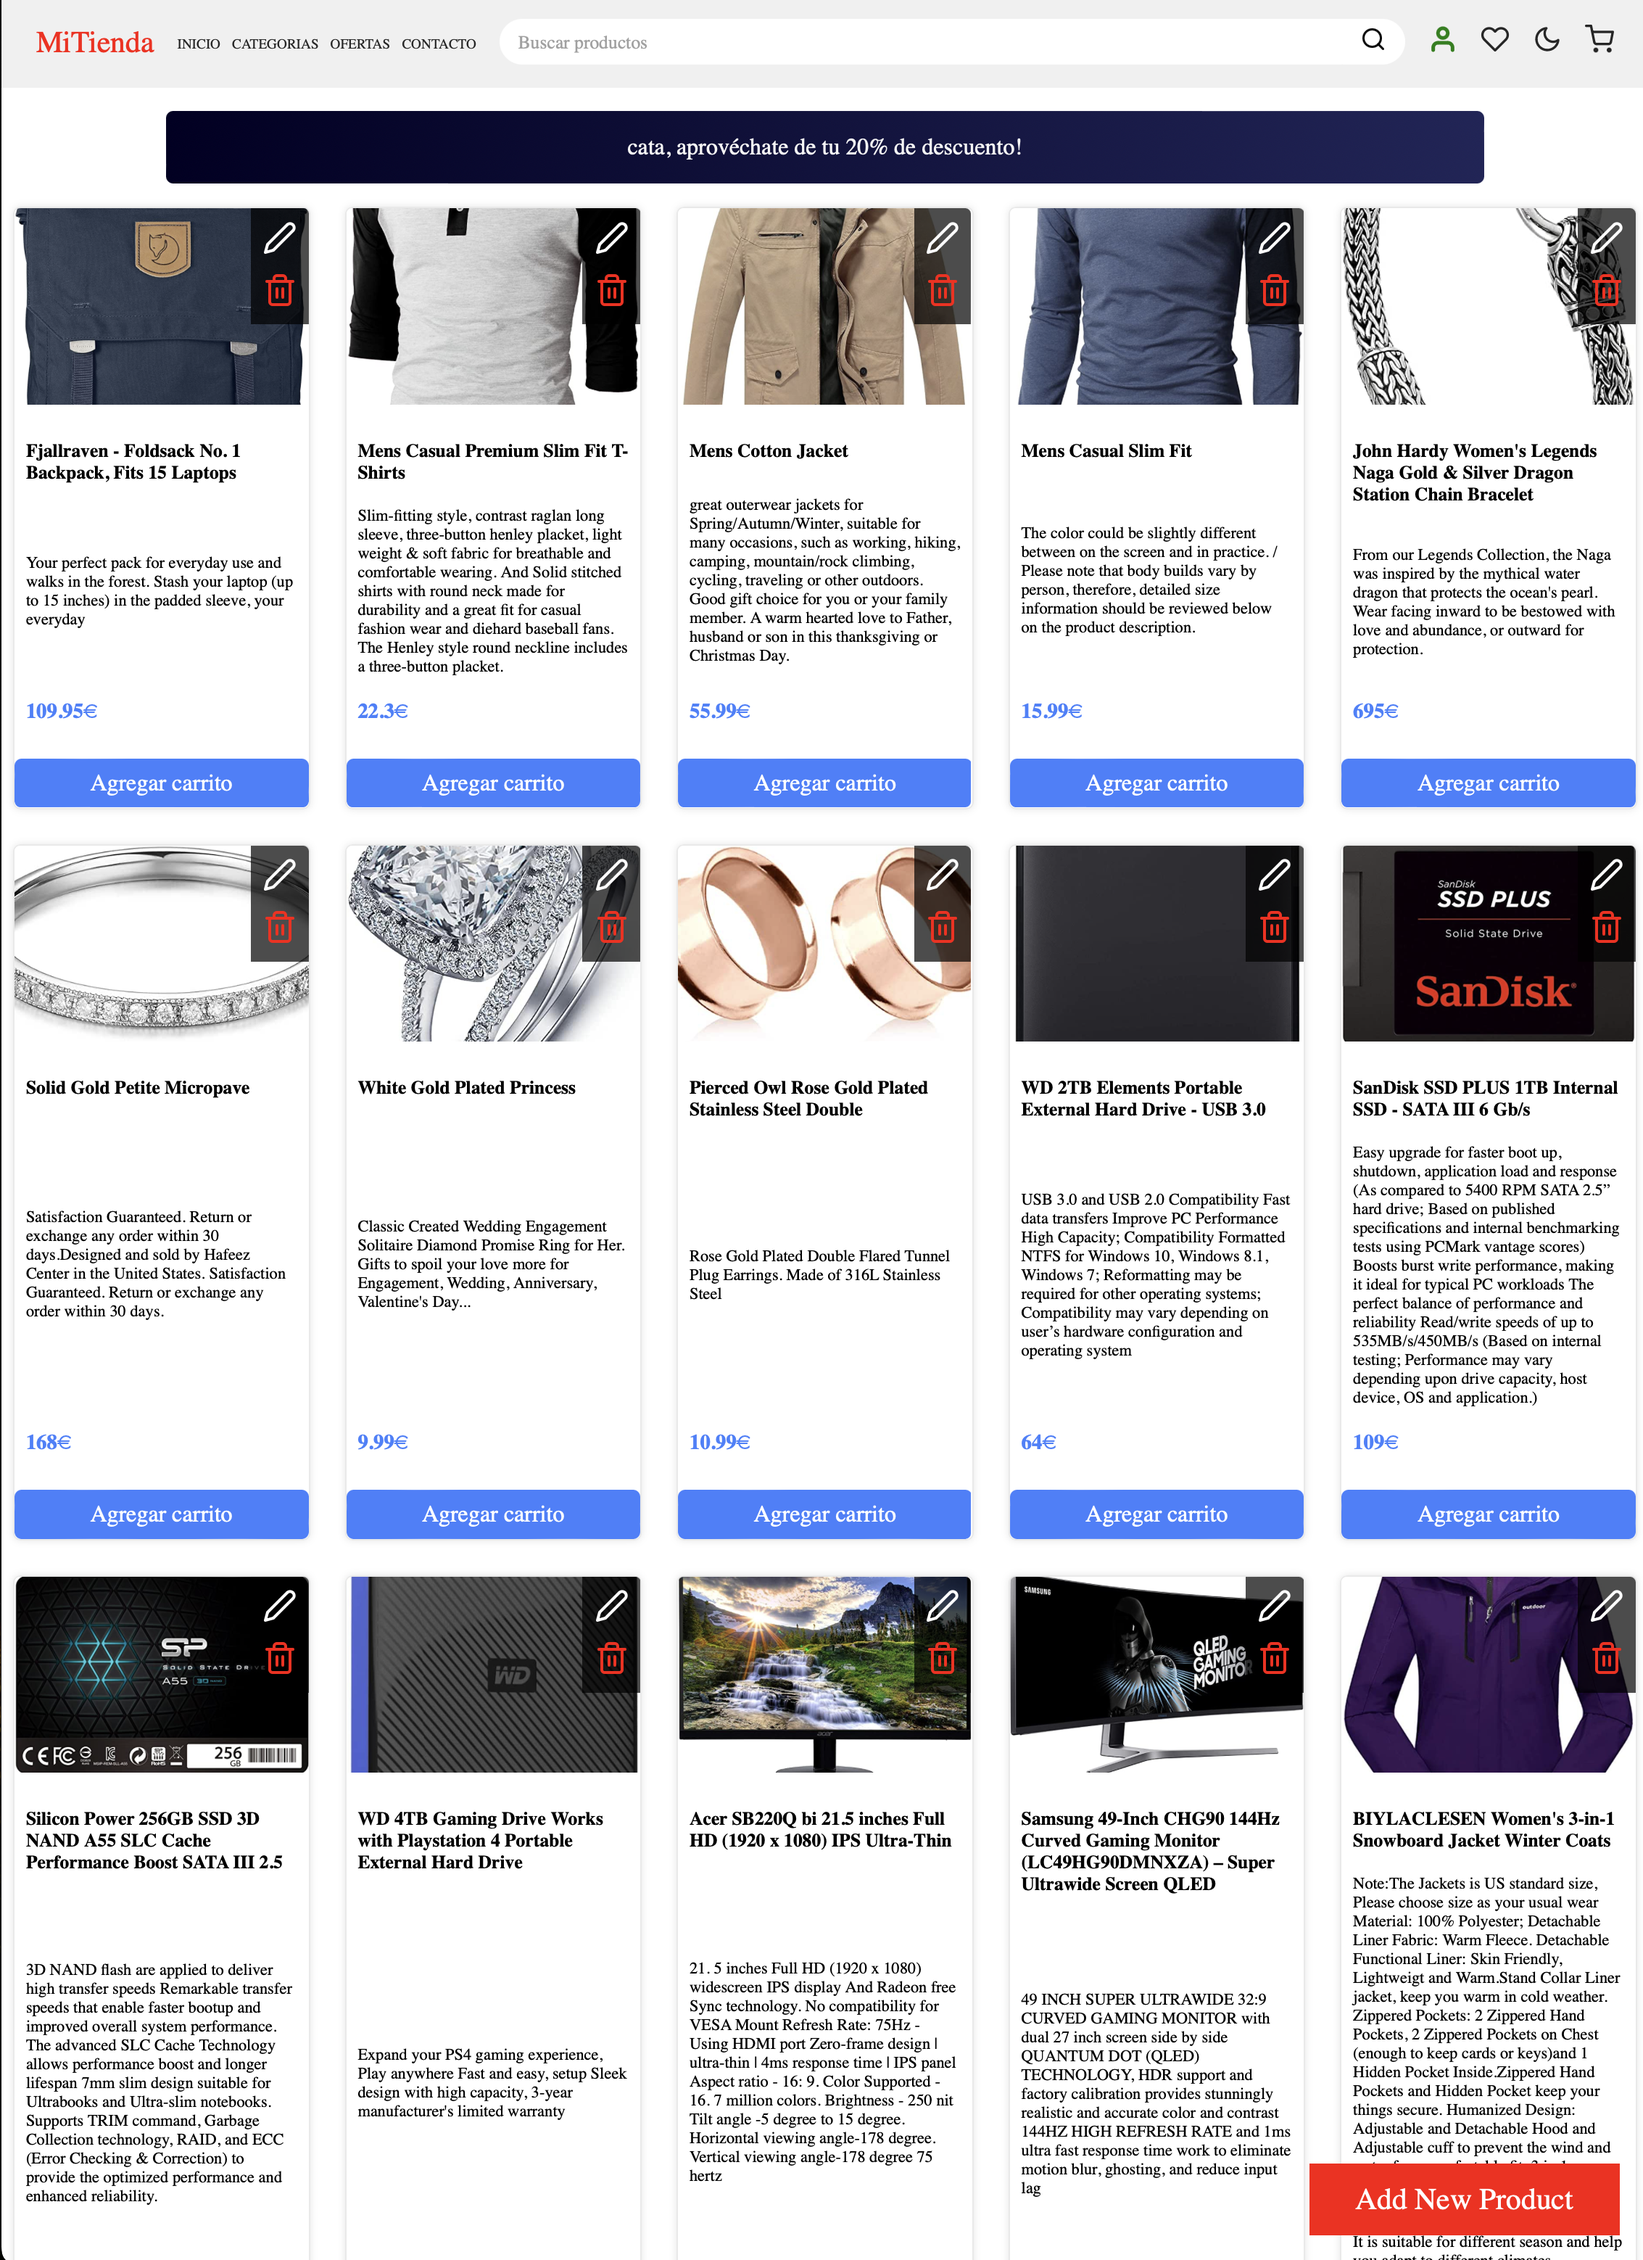
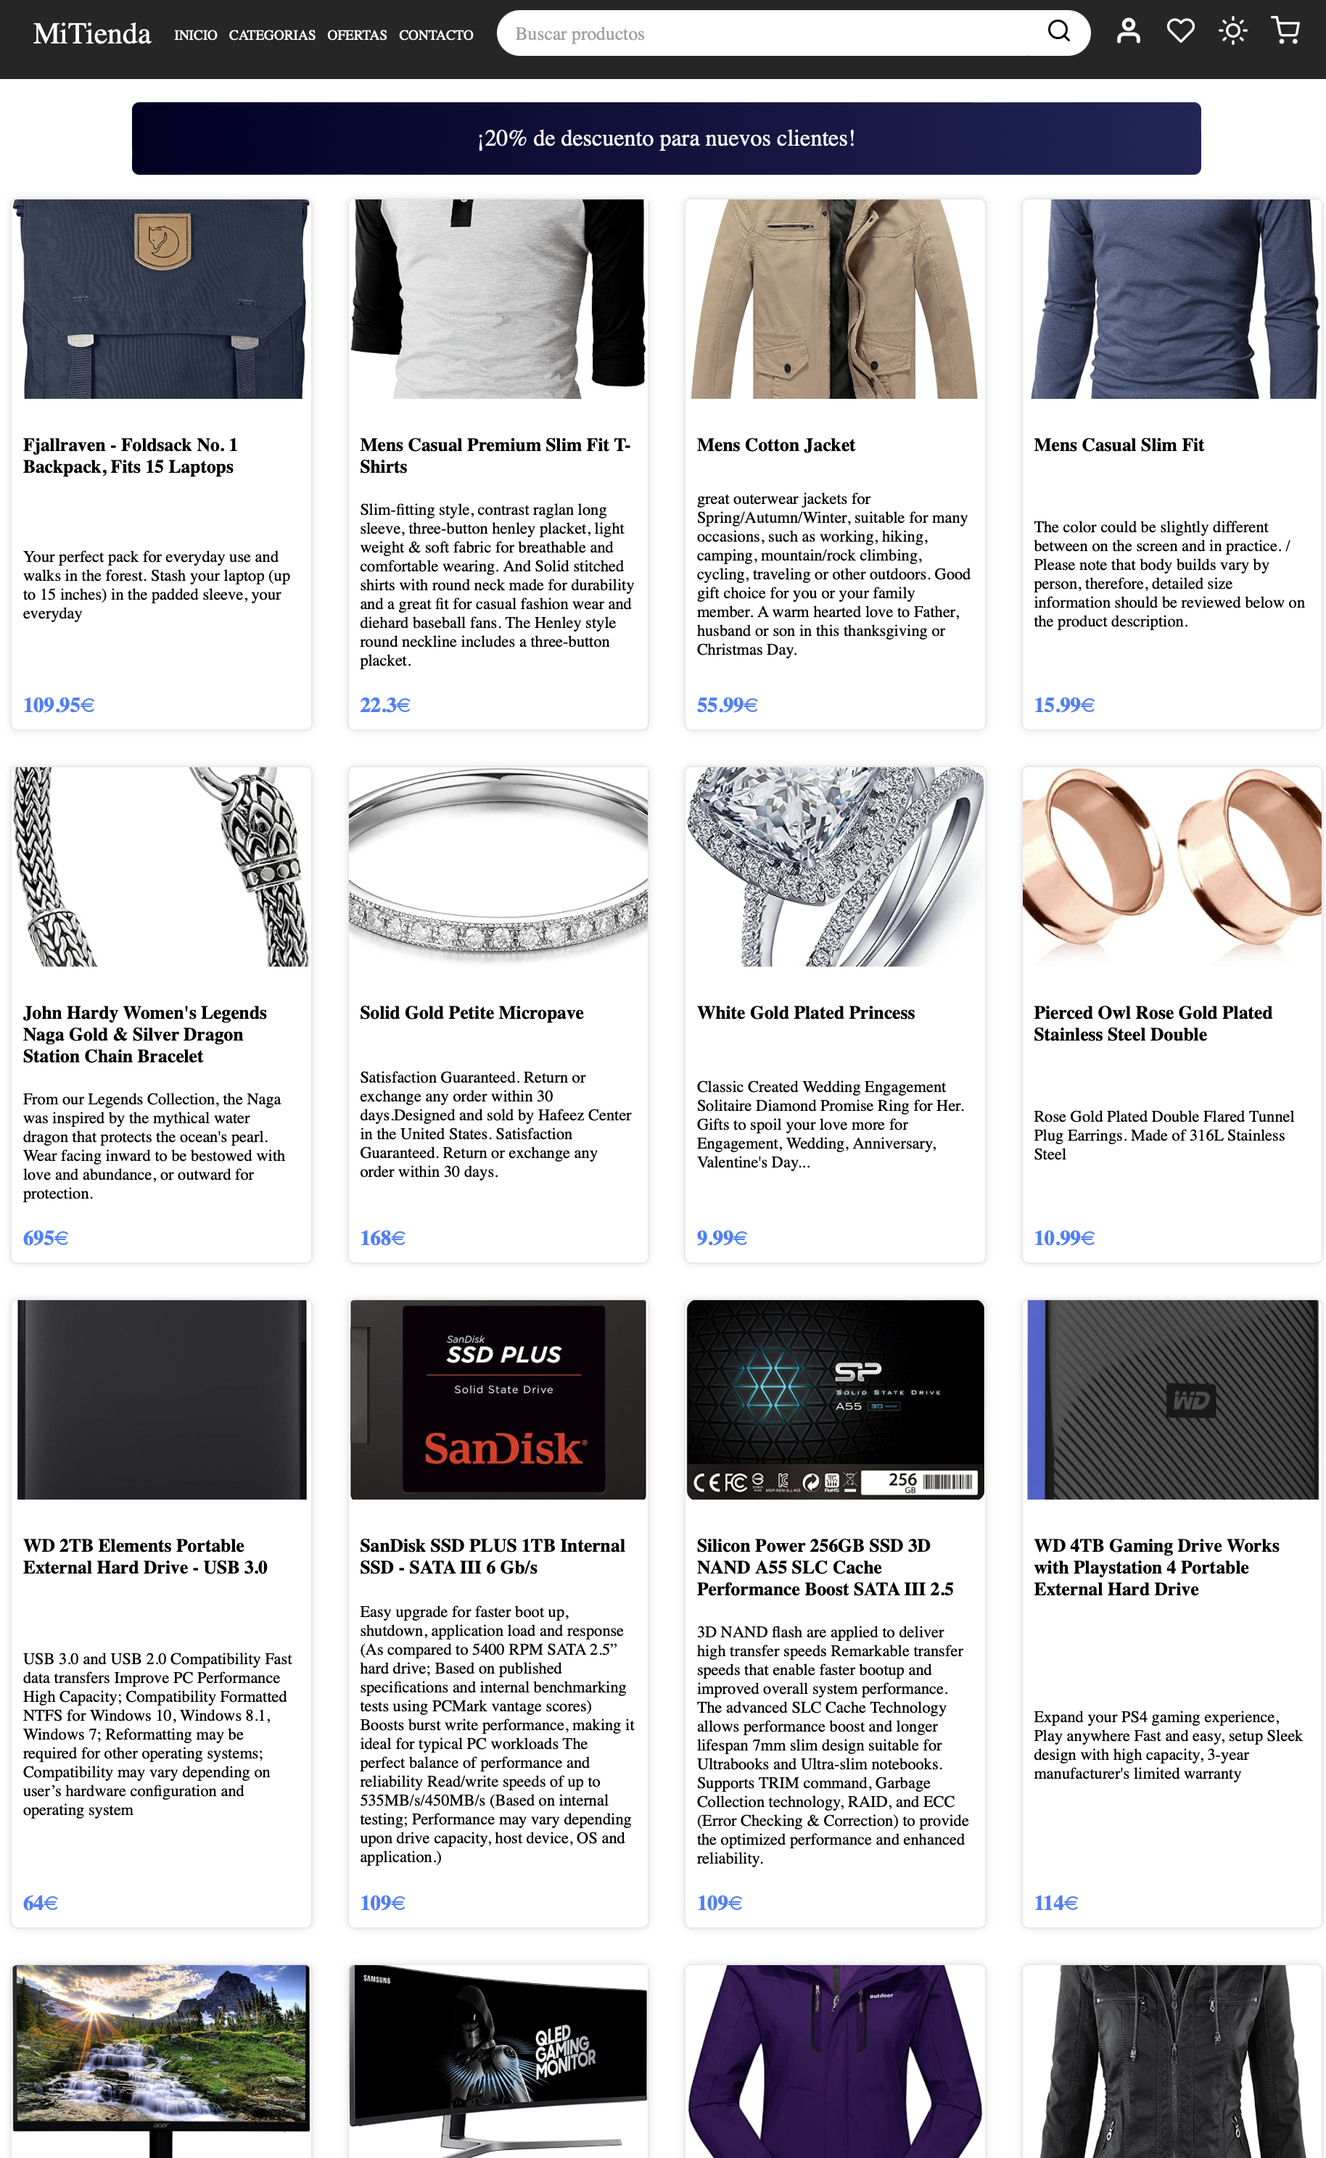
Trabajando con los enlaces

diff --git a/src/app/contenido-proyectos/mi-tienda/contenido.js b/src/app/contenido-proyectos/mi-tienda/contenido.js
@@ -5,7 +5,7 @@ import asideEscritorio from "@/app/contenido-proyectos/mi-tienda/imagenes/proble
 import asideMovil from "@/app/contenido-proyectos/mi-tienda/imagenes/problemas-corto.png";
 
 export const contenidoDePagina = {
-  id: "017",
+  id: "016",
   hero: {
     about: "Proyecto:",
     title: "E-commerce Mi Tienda",
@@ -13,10 +13,10 @@ export const contenidoDePagina = {
   subHero: {
     titleSuperior: "Introducción:",
     contentSuperior:
-      "¡Bienvenido a nuestro E-commerce: Mi tienda. Con formularios controlados, un carrito de compra intuitivo y un amplio listado de productos, esta plataforma ofrece una experiencia de compra ficticia pero satisfactoria. Inspirados y orientado por la experiencia del profesor del curso, hemos diseñado esta página para brindar una simulación de compra en línea. ¡Puedes explorar de nuestra selección y disfruta de esta experiencia virtual!",
+      "¡Bienvenido a E-commerce: Mi tienda. Con formularios controlados, un carrito de compra intuitivo y un amplio listado de productos. Esta plataforma ofrece una experiencia de compra ficticia pero satisfactoria. Inspirados y orientado por la experiencia del profesor del curso, hemos diseñado esta página para brindar una simulación de compra en línea. ¡Puedes explorar de nuestra selección y disfruta de esta experiencia virtual!",
     titleInferior: ["Tipo", "Herramientas", "En vivo"],
     contentInferior: {
-      colUno: ["Proyeto E-commerce Mi Tienda"],
+      colUno: ["Web App E-commerce Mi Tienda"],
       colDos: [
         "React",
         "Next.js",
@@ -25,6 +25,7 @@ export const contenidoDePagina = {
         "Javascript ES6",
         "Axios",
         "Git & GitHub",
+        "Firebase",
         "Vercel",
       ],
 
@@ -35,7 +36,7 @@ export const contenidoDePagina = {
     bloqueUno: {
       title: "Propósito del proyecto",
       content: [
-        "El propósito de este proyecto E-commerce ha sido combinar la dirección del profesor del curso con mi habilidad para implementar sus enseñanzas en un entorno práctico. Desde la concepción hasta la realización, he trabajado en estrecha colaboración con el profesor para incorporar los elementos esenciales de la app, como formularios controlados, un carrito de compra intuitivo y un listado de productos detallado.",
+        "El propósito de este proyecto E-commerce ha sido combinar la dirección del profesor del curso con mi habilidad para implementar sus enseñanzas en un entorno práctico. Desde la concepción hasta la realización, he trabajado orientada por el profesor para incorporar los elementos esenciales de la app, como formularios controlados, un carrito de compra, enrutados con un listado de productos detallado.",
         " Este proyecto no solo buscaba cumplir con los requisitos del curso, sino también fomentar la participación activa de todos los alumnos. Después de seguir las directrices del profesor, mediantes las tutoria impartida se hablaba y discutia todo lo desarrollado.  Permitiendo que cada estudiante aportara sus ideas y perspectivas únicas.",
         "A través de este proceso colaborativo, buscamos no solo mejorar nuestras habilidades individuales, sino también enriquecer nuestra comprensión colectiva.",
       ],
@@ -43,10 +44,9 @@ export const contenidoDePagina = {
     bloqueDos: {
       title: "Mi papel en el proyecto",
       content: [
-        "Utilizando Figma app he creado el diseño y UI.",
-        "Con lo aprendido en el Bootcamp en Qualentum y con 'Joy of React' de Joshua Comeau, he podido incorporar algunas ideas clave en la estructura y funcionalidad del sitio.",
-        "Estos curso me han proporcionado una buena base para empezar en Next.js y el renderizado del lado del servidor (SSR), lo que ha resultado fundamental para la arquitectura de mi aplicación web. ",
-        "A excepción del CSS reset, todas las líneas de código han sido escritas por mí. Leer la documentación me ha ayudado a resolver los problemas por mi cuenta. A pesar de algunos errores de principiante, logré que el sitio haya funcionado correctamente y, lo más importante, he adquirido nuevos conocimientos. ",
+        "Como alumna participante en este proyecto E-commerce, mi papel ha sido fundamentalmente el de aprender y aplicar los conocimientos impartidos por el profesor del curso. Desde el inicio, me he comprometido a absorber cada enseñanza y a trabajar en colaboración con mis compañeros bajo la dirección del profesor.",
+        "A lo largo del sprint, mi enfoque ha sido seguir las pautas establecidas por el profesor, mientras exploraba activamente cómo implementarlas en la práctica. En cada etapa del desarrollo, he buscado la orientación del profesor para comprender mejor los conceptos y abordar los desafíos que han surgido. ",
+        "Con la ayuda del profesor, he sido capaz de alcanzar las respuestas correctas y superar obstáculos, aprovechando su experiencia para mejorar mis habilidades y comprender mejor los principios fundamentales de la app. Su guía ha sido invaluable para mí, permitiéndome no sólo alcanzar los objetivos del proyecto, sino también consolidar todo lo aprendido hasta el momemnto.",
       ],
     },
     bloqueTres: {

diff --git a/src/app/contenido-proyectos/home-page/proyectos.js b/src/app/contenido-proyectos/home-page/proyectos.js
@@ -1,6 +1,6 @@
 import formularioMultiPaginas from "@/app/contenido-proyectos/home-page/imagenes/multipagina-tarjeta.png";
 import bubulaziPortafolio from "@/app/contenido-proyectos/home-page/imagenes/bubulazi-tarjeta.jpg";
-import ecommerceMiTienda from "@/app/contenido-proyectos/home-page/imagenes/problemas-largo.png";
+import miTienda from "@/app/contenido-proyectos/home-page/imagenes/mi-tienda.png";
 import recordatorios from "@/app/contenido-proyectos/home-page/imagenes/recordatorio-tarjeta.jpeg";
 import chatGTP from "@/app/contenido-proyectos/home-page/imagenes/chat-tarjeta.png";
 import sarajevoTours from "@/app/contenido-proyectos/home-page/imagenes/sarajevo-tours-tarjeta.png";
@@ -21,10 +21,10 @@ export const PROYECTOS = [
     id: "016",
     title: "E-commerce: Mi Tienda",
     description:
-      'Desarrollado por mi, inspirado y orientado por el profesor "Alejandro Castro" y de todo lo aprendido en el bootcamp Qualentum. Utilizando React, Next.js, Redux, Redux Toolkit. El objetivo principal de este proyecto ha sido repasar todo lo aprendido, llevarlo a cabo y discutirlo en cada Lab del curso.',
+      'Desarrollada por mi, inspirada y orientada por el profesor "Alejandro Castro" y de todo lo aprendido en el bootcamp Qualentum. Utilizando React, Next.js, Redux, Redux Toolkit. El objetivo principal de este proyecto ha sido repasar todo lo aprendido, llevarlo a cabo y discutirlo en cada Lab del curso.',
     url: "/proyectos/mi-tienda",
     linkTexto: "Ver proyecto",
-    imageURL: ecommerceMiTienda,
+    imageURL: miTienda,
   },
   {
     id: "015",

diff --git a/src/app/proyectos/mi-tienda/page.js b/src/app/proyectos/mi-tienda/page.js
@@ -1,0 +1,36 @@
+import Hero from "@/app/componentes/Hero";
+import SubHero from "@/app/componentes/SubHero";
+import { contenidoDePagina } from "@/app/contenido-proyectos/mi-tienda/contenido";
+import ProyectosMain from "@/app/componentes/Proyectos/ProyectosMain";
+import ProyectosAside from "@/app/componentes/Proyectos/ProyectosAside/ProyectosAside";
+import OtrosProyectos from "@/app/componentes/Proyectos/OtrosProyectos";
+import { PROYECTOS } from "@/app/contenido-proyectos/home-page/proyectos";
+import InfoLink from "@/app/componentes/InfoLink";
+
+export default function Page() {
+  const { id, hero, subHero, main, aside, infoLink } = contenidoDePagina;
+
+  return (
+    <>
+      <Hero
+        type="sin-imagen"
+        about={hero.about}
+        title={hero.title}
+      />
+      <SubHero
+        type="doble-tres-listas"
+        content={subHero}
+      />
+      <ProyectosMain content={main} />
+      <ProyectosAside content={aside} />
+      <OtrosProyectos
+        proyectos={PROYECTOS}
+        id={id}
+      />
+      <InfoLink
+        type="single-link"
+        content={infoLink}
+      />
+    </>
+  );
+}
